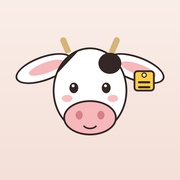
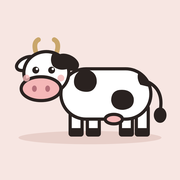
個体識別 日数計算のアイコンを全身の牛の絵に差し替え
Claude-Session: https://claude.ai/code/session_01VH7AZLU5B9t2TG4efyaPxY

Changed region(s): [[0.0833, 0.1944, 0.9444, 0.7778]]

diff --git a/kotai/index.html b/kotai/index.html
@@ -6,9 +6,9 @@
 <title>個体識別 日数計算</title>
 <meta name="apple-mobile-web-app-title" content="個体識別 日数計算">
 <meta name="theme-color" content="#8e2f2a">
-<link rel="apple-touch-icon" href="apple-touch-icon.png?v=1">
-<link rel="icon" type="image/png" sizes="192x192" href="icon-192.png?v=1">
-<link rel="manifest" href="manifest.webmanifest?v=1">
+<link rel="apple-touch-icon" href="apple-touch-icon.png?v=2">
+<link rel="icon" type="image/png" sizes="192x192" href="icon-192.png?v=2">
+<link rel="manifest" href="manifest.webmanifest?v=2">
 <style>
 /* 日数計算アプリ（Claudeの中にある本体）へ飛ぶだけの入口 */
 :root{--bg:#f6f2f0;--ink:#2a2220;--muted:#7a6b67;--accent:#8e2f2a;--accent-ink:#fff;color-scheme:light}
@@ -25,7 +25,7 @@ a.go:focus-visible{outline:3px solid var(--ink);outline-offset:3px}
 </style>
 </head>
 <body>
-<img src="icon-192.png?v=1" alt="">
+<img src="icon-192.png?v=2" alt="">
 <h1>個体識別 日数計算</h1>
 <div id="setup" hidden>
   <p>この画面をホーム画面に追加すると、<br>牛のアイコンから日数計算アプリが開きます。</p>
